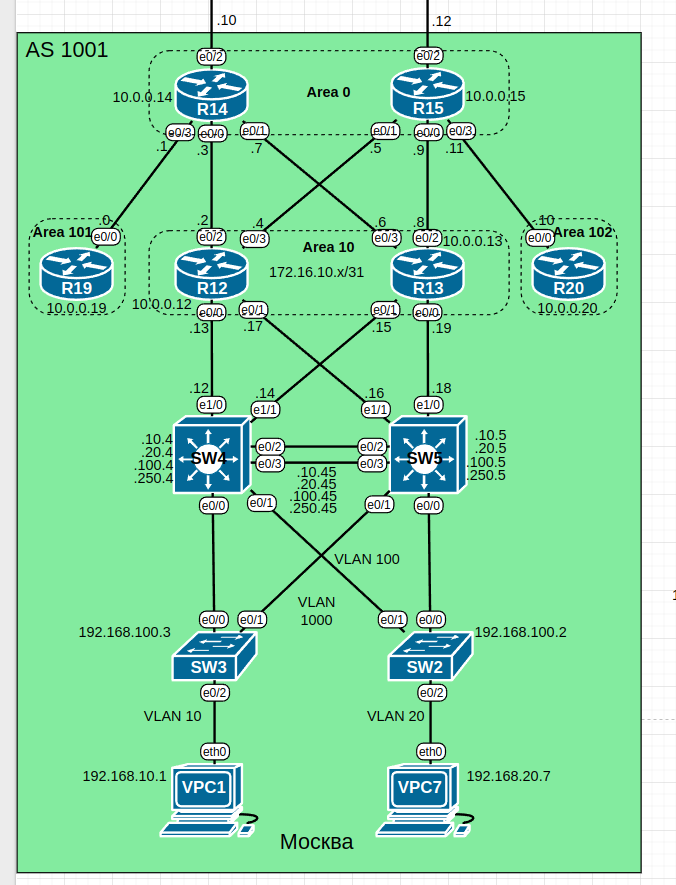
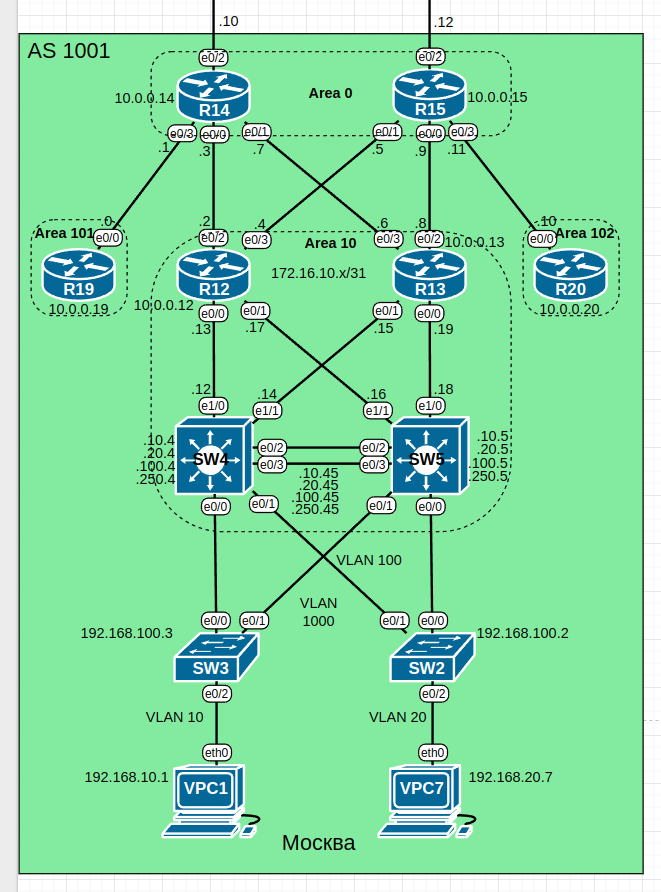
hw15: small fixes

Changed region(s): [[0.0, 0.0, 1.0, 1.0], [0.4539, 0.0915, 0.5446, 0.122], [0.2118, 0.1831, 0.2421, 0.2136]]

diff --git a/hw15/README.md b/hw15/README.md
@@ -164,6 +164,8 @@ R14(config-router)#exit
 R14(config)#
 ```
 
+Получить такой же результат можно было бы объявив зону 10 как **stub**.
+
 ### Добавление virtual-link
 
 В нашей топологии между маршрутизаторами **R14** и **R15** нет прямой связи. Как
